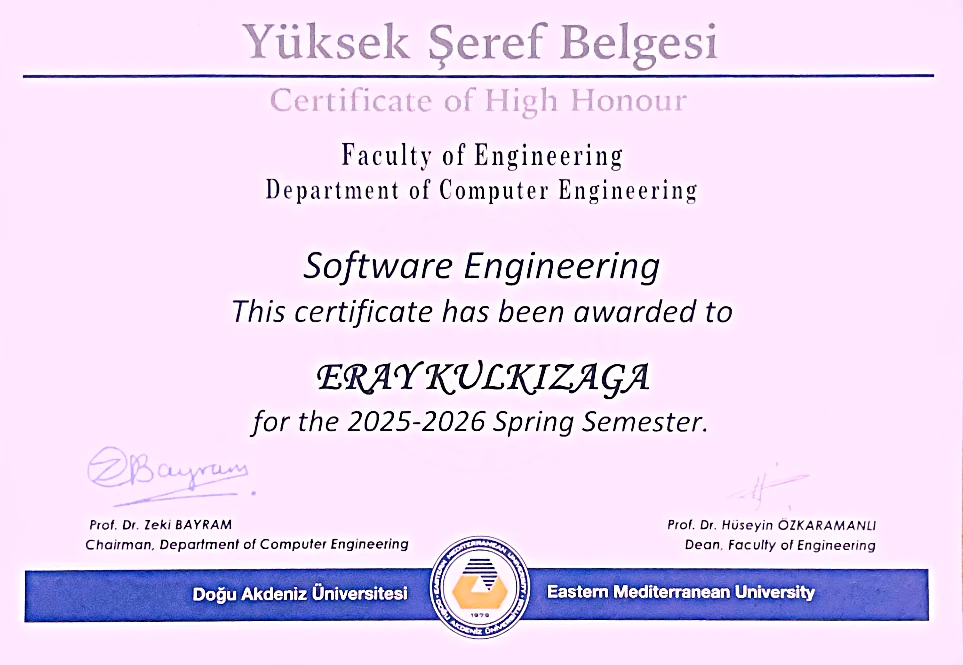
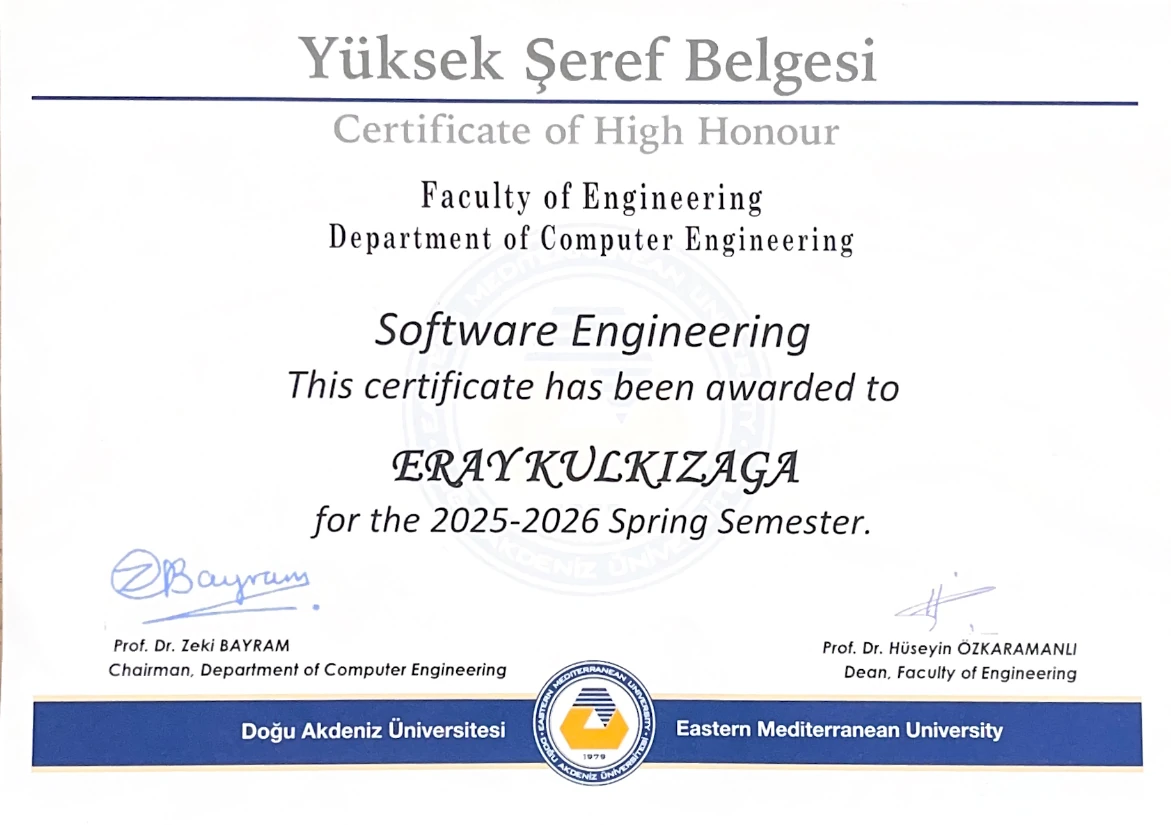
Add academic honours and references

diff --git a/index.html b/index.html
@@ -26,7 +26,7 @@
     <link rel="apple-touch-icon" href="images/main-192.png">
     <link rel="manifest" href="manifest.webmanifest">
     <link rel="icon" href="images/main.png" type="image/png">
-    <link rel="stylesheet" href="style.css?v=20260810-1">
+    <link rel="stylesheet" href="style.css?v=20260810-2">
     <script>document.documentElement.classList.add('js');</script>
   </head>
   <body class="home">
@@ -48,6 +48,7 @@
           <a href="#about">About</a>
           <a href="#skills">Skills</a>
           <a href="#certificates">Credentials</a>
+          <a href="#references">References</a>
           <a href="#contact">Contact</a>
           <a href="documents/eray-kulkizaga-cv.pdf" target="_blank" rel="noopener noreferrer">CV</a>
         </nav>
@@ -62,6 +63,7 @@
         <a href="#about">About</a>
         <a href="#skills">Skills</a>
         <a href="#certificates">Credentials</a>
+        <a href="#references">References</a>
         <a href="#contact">Contact</a>
         <a href="documents/eray-kulkizaga-cv.pdf" target="_blank" rel="noopener noreferrer">Download CV</a>
       </nav>
@@ -307,12 +309,13 @@
 
             <article class="cert reveal">
               <div class="cert__badge"><img src="images/dau.png" alt="Eastern Mediterranean University" loading="lazy" decoding="async" width="1000" height="1000"></div>
-              <div class="cert__content"><p class="cert__logo">Eastern Mediterranean University</p><h3 class="cert__title">High Honour Student · Spring 2025–2026</h3></div>
-              <div class="cert-previews">
+              <div class="cert__content"><p class="cert__logo">Eastern Mediterranean University</p><h3 class="cert__title">Academic Honours · 2025–2026</h3></div>
+              <div class="cert-previews" data-slider>
                 <div class="cert-previews__track">
-                  <button class="certificate-frame certificate-frame--contain" type="button" data-image-modal="images/high-honour-student.webp" aria-label="Open High Honour Student certificate"><img src="images/high-honour-student.webp" alt="High Honour Student certificate awarded by Eastern Mediterranean University Faculty of Engineering for the 2025–2026 Spring Semester" loading="lazy" decoding="async" width="963" height="665"></button>
+                  <button class="certificate-frame certificate-frame--contain" type="button" data-image-modal="images/high-honour-student.webp" aria-label="Open High Honour Student certificate"><img src="images/high-honour-student.webp" alt="High Honour Student certificate awarded by Eastern Mediterranean University Faculty of Engineering for the 2025–2026 Spring Semester" loading="lazy" decoding="async" width="1171" height="825"></button>
+                  <button class="certificate-frame certificate-frame--contain" type="button" data-image-modal="images/honour-student.webp" aria-label="Open Honour Student certificate"><img src="images/honour-student.webp" alt="Honour Student certificate awarded by Eastern Mediterranean University Faculty of Engineering for the 2025–2026 Fall Semester" loading="lazy" decoding="async" width="1600" height="1125"></button>
                 </div>
-                <div class="cert-previews__dots cert-previews__dots--placeholder" aria-hidden="true"></div>
+                <div class="cert-previews__dots" role="group" aria-label="Choose academic honour certificate"><button class="cert-previews__dot is-active" type="button" aria-label="Show High Honour certificate" aria-current="true"></button><button class="cert-previews__dot" type="button" aria-label="Show Honour certificate"></button></div>
               </div>
             </article>
 
@@ -358,6 +361,35 @@
               <div class="cert-previews"><div class="cert-previews__track"><button class="certificate-frame" type="button" data-image-modal="images/cert5.webp" aria-label="Open Introduction to Artificial Intelligence certificate"><img src="images/cert5.webp" alt="Introduction to Artificial Intelligence certificate" loading="lazy" decoding="async" width="1429" height="1010"></button></div><div class="cert-previews__dots cert-previews__dots--placeholder" aria-hidden="true"></div></div>
             </article>
           </div>
+        </div>
+      </section>
+
+      <section id="references" class="section section--dark references">
+        <div class="container">
+          <div class="references__head reveal">
+            <p class="eyebrow">Academic recommendations</p>
+            <h2>What my professors observed.</h2>
+            <p>Selected excerpts from signed reference letters.</p>
+          </div>
+          <div class="references__grid">
+            <blockquote class="reference-quote reveal">
+              <p>“He is a highly motivated individual – working very well in teams and at the same time can take the initiative in leading the team…”</p>
+              <footer>
+                <strong>Asst. Prof. Dr. Ahmet Ünveren</strong>
+                <span>Vice Chair · Department of Computer Engineering</span>
+                <span>Eastern Mediterranean University · 29 July 2026</span>
+              </footer>
+            </blockquote>
+            <blockquote class="reference-quote reveal">
+              <p>“Eray is a hardworking and dependable individual who is capable of working both independently and as part of a team.”</p>
+              <footer>
+                <strong>Prof. Dr. Alexander G. Chefranov</strong>
+                <span>Department of Computer Engineering</span>
+                <span>Eastern Mediterranean University · 6 August 2026</span>
+              </footer>
+            </blockquote>
+          </div>
+          <p class="references__note reveal">Signed letters are available to employers on request. Personal contact details are not published.</p>
         </div>
       </section>
 

diff --git a/style.css b/style.css
@@ -202,6 +202,20 @@ button { color: inherit; }
 .certificate-frame--contain img { object-fit: contain; }.certificate-frame--portrait { background: #f6f8fb; }
 .cert-previews__dots { display: flex; justify-content: center; align-items: center; min-height: 44px; }.cert-previews__dots--placeholder { visibility: hidden; }.cert-previews__dot { position: relative; width: 44px; height: 44px; padding: 0; border: 0; background: transparent; cursor: pointer; }.cert-previews__dot::after { content: ""; position: absolute; top: 50%; left: 50%; width: 7px; height: 7px; border-radius: 50%; background: #b6b6bb; transform: translate(-50%,-50%); }.cert-previews__dot.is-active::after { background: var(--text); }
 
+.references { position: relative; overflow: hidden; }
+.references::before { content: "“"; position: absolute; top: -92px; right: max(2vw,24px); color: rgba(255,255,255,.035); font: 700 clamp(240px,32vw,500px)/1 Georgia,serif; pointer-events: none; }
+.references__head { position: relative; max-width: 760px; margin-bottom: 48px; }
+.references__head h2 { margin: 0; color: #fff; font-size: clamp(42px,5.5vw,72px); line-height: .98; letter-spacing: -.055em; }
+.references__head > p:last-child { max-width: 560px; margin: 20px 0 0; color: #92929b; font-size: 17px; }
+.references__grid { position: relative; display: grid; grid-template-columns: 1.05fr .95fr; gap: 1px; overflow: hidden; border: 1px solid rgba(255,255,255,.12); border-radius: 22px; background: rgba(255,255,255,.12); }
+.reference-quote { min-width: 0; min-height: 360px; display: flex; flex-direction: column; justify-content: space-between; margin: 0; padding: clamp(30px,4vw,50px); background: #0c0d11; }
+.reference-quote:first-child { background: linear-gradient(145deg,rgba(8,120,255,.12),transparent 48%),#0c0d11; }
+.reference-quote > p { margin: 0; color: #f4f4f6; font-size: clamp(24px,2.8vw,36px); line-height: 1.25; letter-spacing: -.032em; }
+.reference-quote footer { display: grid; gap: 4px; margin-top: 46px; }
+.reference-quote strong { color: #fff; font-size: 14px; }
+.reference-quote span { color: #7f7f88; font-size: 12px; line-height: 1.5; }
+.references__note { position: relative; margin: 18px 0 0; color: #777780; font-size: 12px; }
+
 .contact { overflow: hidden; text-align: center; }.contact::before { content: "</>"; position: absolute; left: 50%; top: 50%; z-index: -1; color: rgba(8,120,255,.035); font: 800 clamp(170px, 30vw, 420px)/1 ui-monospace, SFMono-Regular, Consolas, monospace; transform: translate(-50%,-50%); }
 .contact-panel { max-width: 920px; }.contact-panel h2 { font-size: clamp(48px, 8vw, 92px); }.contact-panel__lead { max-width: 720px; margin: 24px auto 0; color: var(--muted); font-size: 18px; }.contact-email { display: inline-block; margin-top: 28px; color: var(--text); font-size: clamp(17px,3vw,25px); font-weight: 650; text-decoration: none; }.contact-email:hover { color: var(--primary); }.contact-actions { display: flex; flex-wrap: wrap; justify-content: center; gap: 10px; margin-top: 28px; }
 
@@ -235,6 +249,8 @@ button { color: inherit; }
   .award-feature { grid-template-columns: 1fr; }.projects__grid, .about__grid { grid-template-columns: 1fr; }.projects__grid { gap: 22px; }.card--wide { grid-column: auto; display: block; }.card--wide .card__media { min-height: 0; aspect-ratio: 16/9; }
   .experience-card { grid-template-columns: 1fr; gap: 22px; }.experience-card__logo { width: min(190px,100%); }.experience-card__heading { flex-direction: column; gap: 7px; }.experience-card__date { text-align: left; white-space: normal; }
   .skills-grid { grid-template-columns: 1fr; }.techs__grid { grid-template-columns: 1fr 1fr; }
+  .references__grid { grid-template-columns: 1fr; }
+  .reference-quote { min-height: 300px; }
 }
 @media (max-width:640px) {
   .container { width: min(calc(100% - 28px - env(safe-area-inset-left) - env(safe-area-inset-right)),var(--max)); }
@@ -244,6 +260,7 @@ button { color: inherit; }
   .projects__grid { grid-template-columns: 1fr; }.card { border-radius: 18px; }.card__body { padding: 23px; }.card__media--code { min-height: 200px; }
   .experience-card { padding: 30px 0; }.profile-stats { grid-template-columns: 1fr 1fr; gap: 10px; }.profile-stat { min-height: 132px; padding: 19px; }
   .certs__grid { grid-template-columns: 1fr; }.techs__grid { grid-template-columns: 1fr; }
+  .references__head { margin-bottom: 32px; }.references__head > p:last-child { font-size: 16px; }.reference-quote { min-height: 0; padding: 28px 24px; }.reference-quote footer { margin-top: 36px; }
   .contact-panel__lead { font-size: 16px; }.contact-actions .btn { flex: 1 1 calc(50% - 10px); }
   .proj-gallery { grid-template-columns: minmax(0,1fr) !important; overflow: hidden; }.proj-gallery figure { width: 100%; overflow: hidden; }.proj-gallery img { width: 100% !important; max-width: 100% !important; height: auto !important; aspect-ratio: auto !important; object-fit: contain !important; }
   .img-modal { padding: 0; }.img-modal__content { width: 100vw; height: 100dvh; border: 0; border-radius: 0; }.img-modal__toolbar { min-height: 54px; padding: 7px 8px; }.img-modal__name { display: none; }.img-modal__controls { width: 100%; justify-content: center; }.img-modal__control,.img-modal__close { height: 40px; min-width: 40px; }.img-modal__hint { padding: 8px 12px calc(8px + env(safe-area-inset-bottom)); }.img-modal__viewport { padding: 12px; }

diff --git a/privacy.html b/privacy.html
@@ -11,7 +11,7 @@
     <meta http-equiv="Content-Security-Policy" content="default-src 'self'; base-uri 'self'; object-src 'none'; frame-src 'none'; img-src 'self' data:; font-src 'self'; style-src 'self' 'unsafe-inline'; script-src 'self' 'unsafe-inline' https://static.cloudflareinsights.com; connect-src 'self' https://cloudflareinsights.com; form-action 'self' mailto:; upgrade-insecure-requests" />
     <link rel="icon" href="images/main.png" type="image/png" />
     <!-- Match index header typography -->
-    <link rel="stylesheet" href="style.css?v=20260810-1" />
+    <link rel="stylesheet" href="style.css?v=20260810-2" />
     <script>document.documentElement.classList.add('js');</script>
   </head>
   <body>

diff --git a/404.html b/404.html
@@ -9,7 +9,7 @@
     <meta name="referrer" content="strict-origin-when-cross-origin" />
     <meta http-equiv="Content-Security-Policy" content="default-src 'self'; base-uri 'self'; object-src 'none'; frame-src 'none'; img-src 'self' data:; style-src 'self' 'unsafe-inline'; script-src 'self' 'unsafe-inline' https://static.cloudflareinsights.com; connect-src 'self' https://cloudflareinsights.com; upgrade-insecure-requests" />
     <link rel="icon" href="images/main.png" type="image/png" />
-    <link rel="stylesheet" href="style.css?v=20260810-1" />
+    <link rel="stylesheet" href="style.css?v=20260810-2" />
     <script>document.documentElement.classList.add('js');</script>
   </head>
   <body>

diff --git a/project-eraykulkizaga.html b/project-eraykulkizaga.html
@@ -22,7 +22,7 @@
     <meta name="twitter:image" content="https://www.eraykulkizaga.com/images/og-portfolio-dark.png" />
     <meta name="theme-color" content="#08080a" />
     <link rel="icon" href="images/main.png" type="image/png" />
-    <link rel="stylesheet" href="style.css?v=20260810-1" />
+    <link rel="stylesheet" href="style.css?v=20260810-2" />
     <script>document.documentElement.classList.add('js');</script>
     <style>
       .proj-hero { padding: 60px 0 40px; }

diff --git a/project-querypilot.html b/project-querypilot.html
@@ -22,7 +22,7 @@
     <meta name="twitter:image" content="https://www.eraykulkizaga.com/images/querypilot-cover.webp" />
     <meta name="theme-color" content="#08080a" />
     <link rel="icon" href="images/main.png" type="image/png" />
-    <link rel="stylesheet" href="style.css?v=20260810-1" />
+    <link rel="stylesheet" href="style.css?v=20260810-2" />
     <script>document.documentElement.classList.add('js');</script>
     <style>
       .proj-hero { padding: 60px 0 40px; }

diff --git a/project-sign-language.html b/project-sign-language.html
@@ -22,7 +22,7 @@
     <meta name="twitter:image" content="https://www.eraykulkizaga.com/images/signturk-cover.webp" />
     <meta name="theme-color" content="#08080a" />
     <link rel="icon" href="images/main.png" type="image/png" />
-    <link rel="stylesheet" href="style.css?v=20260810-1" />
+    <link rel="stylesheet" href="style.css?v=20260810-2" />
     <script>document.documentElement.classList.add('js');</script>
     <style>
       .proj-hero { padding: 60px 0 40px; }

diff --git a/project-supportflow.html b/project-supportflow.html
@@ -22,7 +22,7 @@
     <meta name="twitter:image" content="https://www.eraykulkizaga.com/images/supportflow-cover.webp">
     <meta name="theme-color" content="#08080a">
     <link rel="icon" href="images/main.png" type="image/png">
-    <link rel="stylesheet" href="style.css?v=20260810-1">
+    <link rel="stylesheet" href="style.css?v=20260810-2">
     <script>document.documentElement.classList.add('js');</script>
     <style>
       .proj-hero { padding: 72px 0 42px; }

diff --git a/README.md b/README.md
@@ -47,7 +47,7 @@ A minimalist, performant portfolio built entirely from scratch with **pure HTML,
 
 | Page | Description |
 |---|---|
-| `index.html` | Main portfolio — Hero, Projects, Experience, About, Skills, Credentials, Contact |
+| `index.html` | Main portfolio — Hero, Projects, Experience, About, Skills, Credentials, Academic References, Contact |
 | `project-sign-language.html` | [SignTurk](https://github.com/ErayKulkizaga/SignTurk) — award-winning Turkish Sign Language platform |
 | `project-querypilot.html` | QueryPilot Local — offline-first PostgreSQL execution-plan assistant |
 | `project-supportflow.html` | SupportFlow AI — multi-tenant support backend and document-ingestion case study |
